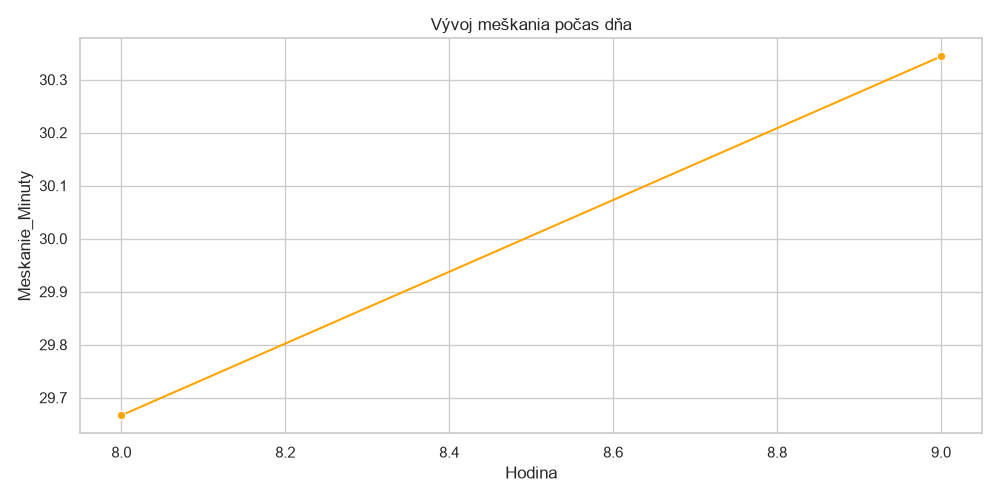
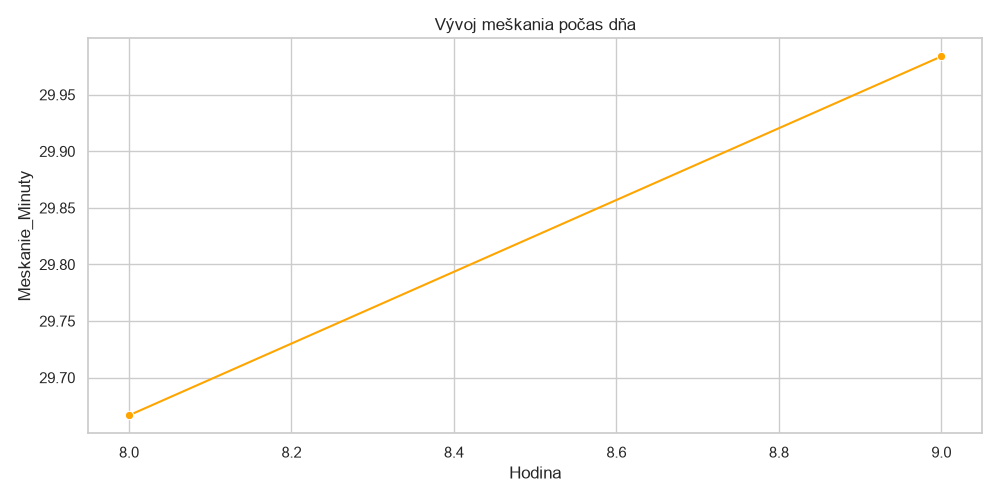
Aktualizácia dát, grafov a webu: 2026-10-23 09:27:42

diff --git a/index.html b/index.html
@@ -20,8 +20,8 @@
     <div class="card">
         <h2>📊 Aktuálne štatistiky</h2>
         <pre>BLESKOVÁ ŠTATISTIKA MEŠKANÍ
-Celkový počet zaznamenaných dát: 144
-Priemerné meškanie na Slovensku: 30.12 min.
+Celkový počet zaznamenaných dát: 172
+Priemerné meškanie na Slovensku: 29.90 min.
 </pre>
     </div>
 
@@ -36,7 +36,7 @@ Priemerné meškanie na Slovensku: 30.12 min.
     </div>
 
     <div class="footer">
-        Posledná aktualizácia: 2026-10-23 09:18:00
+        Posledná aktualizácia: 2026-10-23 09:27:42
     </div>
 </body>
 </html>
